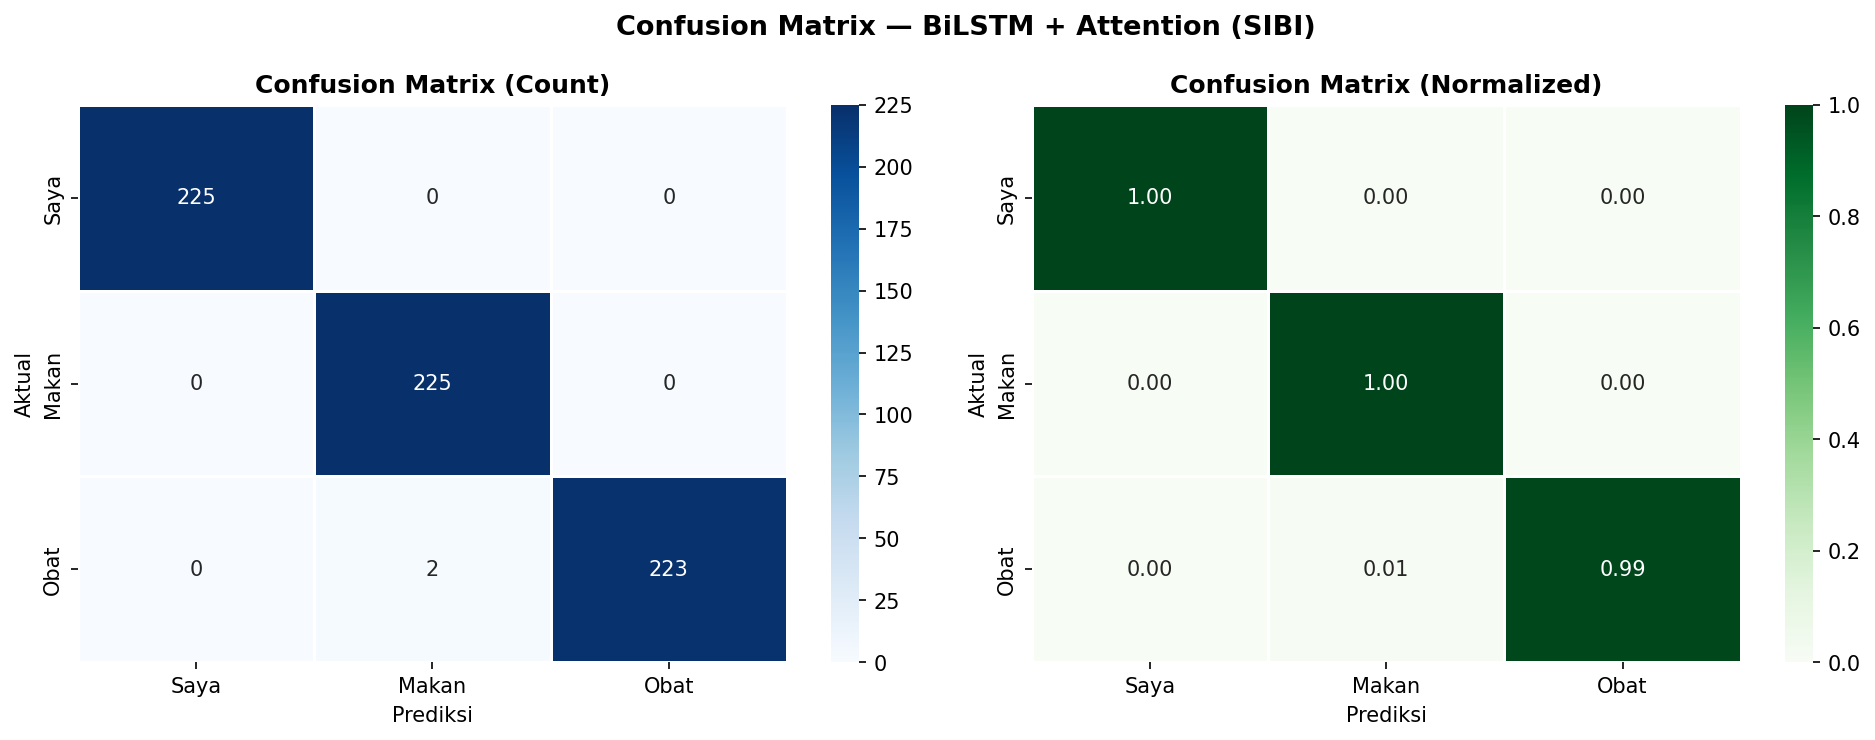
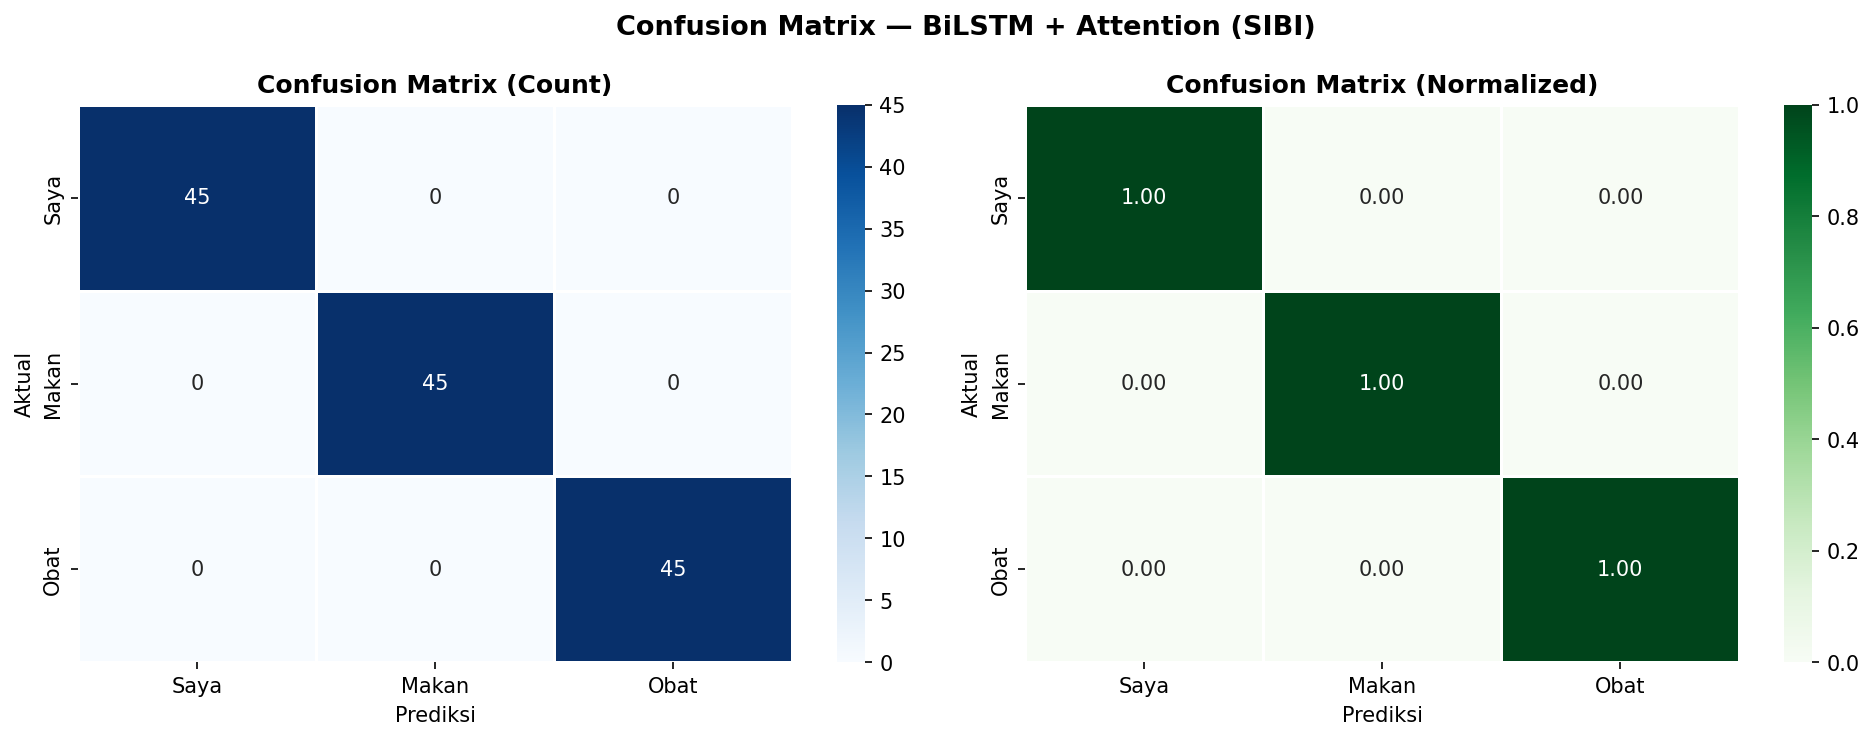
check
Former-commit-id: e3c59a383831f183910eea732cce122b723c9a56

diff --git a/Config.py b/Config.py
@@ -58,8 +58,8 @@ list_kata = np.array([
 ])
 
 # Untuk Collect, Testing dan Training
-actions = np.array(['Saya', 'Buah', 'Kuat', 'Agar', 'Makan', 'Sayur', 'Ibu', 'An', 'Sabar', 'Siap', 'Gelas', 'Obat']);
-# actions = np.array(['Saya', 'Makan', 'Obat']);
+# actions = np.array(['Saya', 'Buah', 'Kuat', 'Agar', 'Makan', 'Sayur', 'Ibu', 'An', 'Sabar', 'Siap', 'Gelas', 'Obat', 'Kakak', 'Rajin', 'Harus']);
+actions = np.array(['Saya', 'Makan', 'Obat']);
 
 
 # 3. Jumlah Video & Frame

diff --git a/TestingRealtimeModel.py b/TestingRealtimeModel.py
@@ -70,7 +70,7 @@ def focal_loss(gamma=2.0, alpha=0.25):
 ACTIONS   = actions
 COLORS    = [(245, 117, 16), (117, 245, 16)]
 THRESHOLD = 0.80   # Akurasi minimal 80%
-MODEL_PATH = 'TrainingModel/Training_SIBI_3Class/Models/epoch500/saya_makan_obat.keras'
+MODEL_PATH = 'TrainingModel/Training_SIBI_3Class/Models/model_sibi.keras'
 
 if not os.path.exists(MODEL_PATH):
     print(f"❌ Error: Model '{MODEL_PATH}' tidak ditemukan!")
